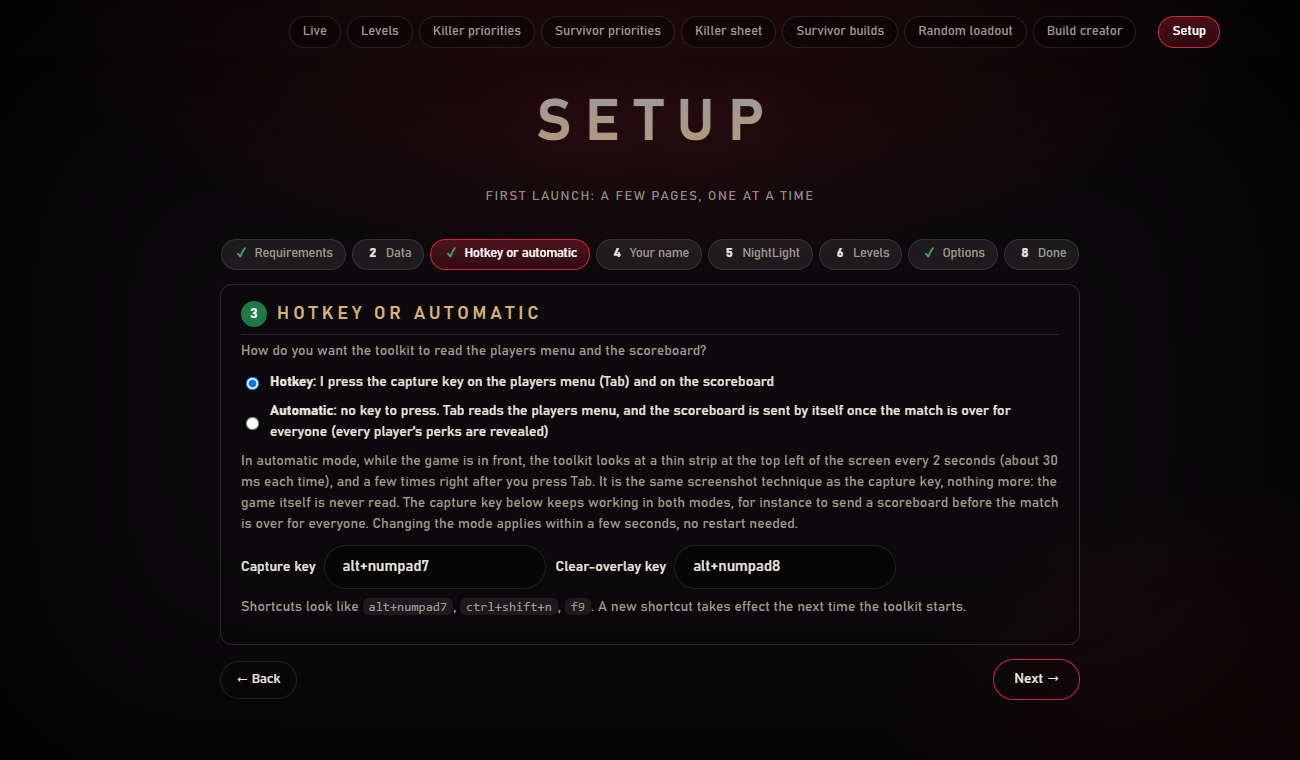
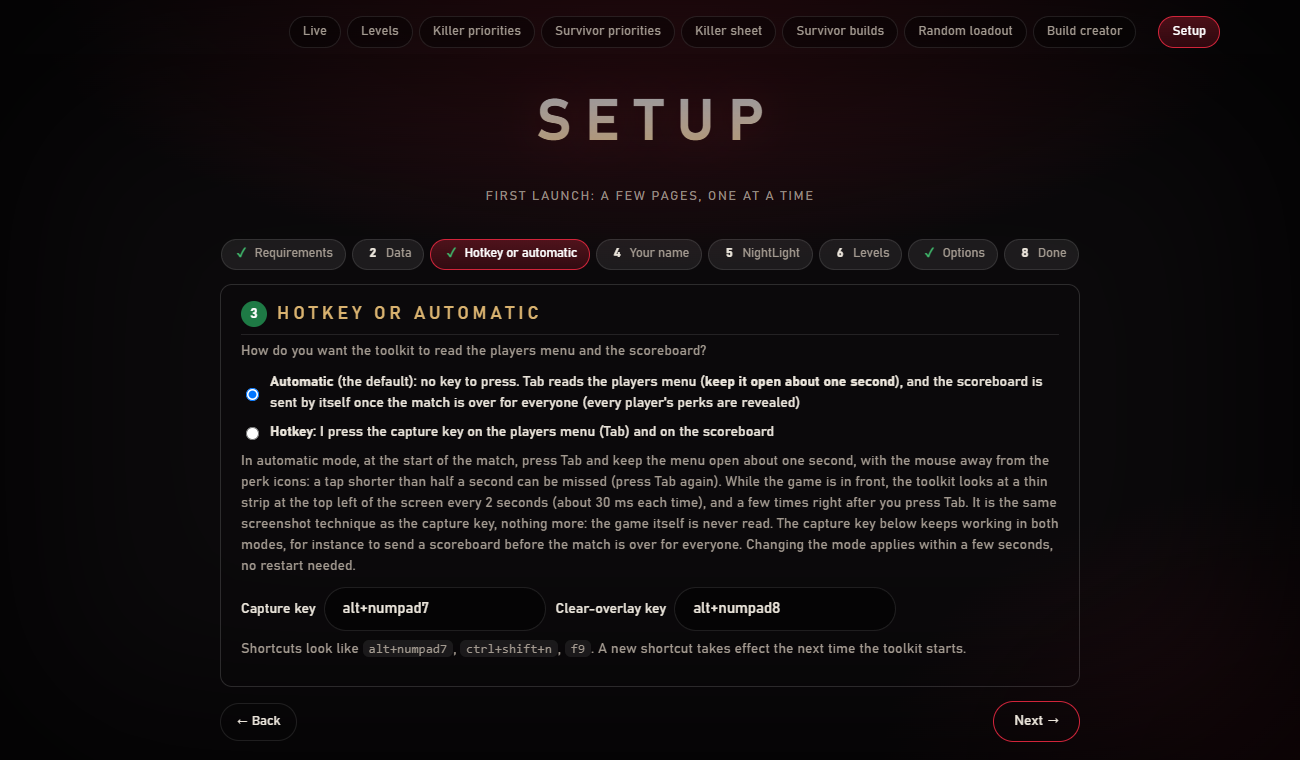
0.3.3: automatic mode is the default (hotkey mode stays one click away in Settings)

diff --git a/web/setup.html b/web/setup.html
@@ -76,8 +76,8 @@
   <section class="step" id="sMode">
     <h2><span class="n"></span>Hotkey or automatic</h2>
     <p>How do you want the toolkit to read the players menu and the scoreboard?</p>
+    <div class="row"><label><input type="radio" name="mode" id="oAutoMode"> <span><b>Automatic</b> (the default): no key to press. Tab reads the players menu (<b>keep it open about one second</b>), and the scoreboard is sent by itself once the match is over for everyone (every player's perks are revealed)</span></label></div>
     <div class="row"><label><input type="radio" name="mode" id="oKeyMode"> <span><b>Hotkey</b>: I press the capture key on the players menu (Tab) and on the scoreboard</span></label></div>
-    <div class="row"><label><input type="radio" name="mode" id="oAutoMode"> <span><b>Automatic</b>: no key to press. Tab reads the players menu (<b>keep it open about one second</b>), and the scoreboard is sent by itself once the match is over for everyone (every player's perks are revealed)</span></label></div>
     <p>In automatic mode, at the start of the match, press Tab and keep the menu open about one second, with the mouse away from the perk icons: a tap shorter than half a second can be missed (press Tab again). While the game is in front, the toolkit looks at a thin strip at the top left of the screen every 2 seconds (about 30 ms each time), and a few times right after you press Tab. It is the same screenshot technique as the capture key, nothing more: the game itself is never read. The capture key below keeps working in both modes, for instance to send a scoreboard before the match is over for everyone. Changing the mode applies within a few seconds, no restart needed.</p>
     <div class="row"><label>Capture key <input type="text" id="kCap" style="min-width:140px"></label><label>Clear-overlay key <input type="text" id="kClr" style="min-width:140px"></label></div>
     <p>Shortcuts look like <code>alt+numpad7</code>, <code>ctrl+shift+n</code>, <code>f9</code>. A new shortcut takes effect the next time the toolkit starts.</p>

diff --git a/entity_toolkit/config.py b/entity_toolkit/config.py
@@ -7,7 +7,7 @@ DEFAULTS = {
     "player": "",                 # your in-game name, as shown on the scoreboard (needed to tick "Me" on NightLight)
     "capture_key": "alt+numpad7",  # one key does everything: players menu -> perks + map, scoreboard -> NightLight upload
     "clear_key": "alt+numpad8",    # removes the perk overlay
-    "auto": False,                # automatic mode: Tab reads the players menu and the scoreboard is sent by itself, without the capture key (which keeps working)
+    "auto": True,                 # automatic mode (the default): Tab reads the players menu and the scoreboard is sent by itself. False = hotkey mode: only the capture key triggers a reading (it keeps working in both modes)
     "overlay": True,              # draw the allies' perks over the game's survivor list
     "perk_hover": True,           # show a perk's text when the mouse is over its icon (the game frees the cursor when you are hooked or dead)
     "sounds": True,               # small "ok" / "not ok" sounds

diff --git a/entity_toolkit/__init__.py b/entity_toolkit/__init__.py
@@ -1,2 +1,2 @@
 """Entity Toolkit: an unofficial companion for Dead by Daylight (perk overlay, NightLight upload, level tracking, recommended builds)."""
-__version__ = "0.3.2"
+__version__ = "0.3.3"

diff --git a/README.fr.md b/README.fr.md
@@ -16,7 +16,7 @@ Un compagnon **non officiel** pour *Dead by Daylight* (Windows) : voir les perks
 |---|---|
 | **Perks des alliés** (survivant) | Dans le menu des joueurs (Tab), avec ta touche de capture ou tout seul en mode automatique, l'outil lit les perks, les noms de personnage et les pseudos de tes trois alliés, les affiche sur la page **Live** (second écran) et les dessine sur la liste des survivants du jeu, devant le bon survivant. |
 | **Texte d'une perk au survol** | Quand le jeu libère la souris (tu es accroché ou mort), passe-la sur une icône de l'overlay : une petite boîte affiche le nom, la note et le texte de la perk. Elle disparaît dès que la souris quitte l'icône. À désactiver dans la page Settings. |
-| **Mode automatique** (facultatif) | Plus aucune touche : Tab (menu ouvert environ une seconde) lit le menu des joueurs, et le tableau de fin part tout seul une fois le match terminé pour tout le monde. Désactivé par défaut, dans Settings. |
+| **Mode automatique** (par défaut) | Aucune touche : Tab (menu ouvert environ une seconde) lit le menu des joueurs, et le tableau de fin part tout seul une fois le match terminé pour tout le monde. Tu préfères une touche ? Choisis *Hotkey* dans Settings. |
 | **Mémoire de la map** (survivant et tueur) | La même touche lit et mémorise la map depuis le menu des joueurs. |
 | **Envoi NightLight** | Sur le tableau de fin de match (même touche, ou tout seul en mode automatique), le match est envoyé à [NightLight](https://nightlight.gg) et la revue est faite pour toi (« Me » coché sur ton pseudo, les autres en Random, map réglée depuis la mémoire, Confirm cliqué). |
 | **Suivi des niveaux** | Une page pour régler où tu en es avec chaque tueur et survivant, tenue à jour automatiquement depuis le tableau de fin. Les actions en masse demandent confirmation et peuvent être annulées. |
@@ -44,12 +44,12 @@ Un compagnon **non officiel** pour *Dead by Daylight* (Windows) : voir les perks
 
 ## En match
 
-L'outil agit à deux moments, le début et la fin d'une partie. Tu choisis dans Settings comment ils se déclenchent : **Hotkey** (une touche de capture de ton choix, Alt + pavé numérique 7 tant que tu ne la changes pas) ou **Automatic** (aucune touche).
+L'outil agit à deux moments, le début et la fin d'une partie. Tu choisis dans Settings comment ils se déclenchent : **Automatic** (par défaut : aucune touche) ou **Hotkey** (une touche de capture de ton choix, Alt + pavé numérique 7 tant que tu ne la changes pas).
 
-| | Mode Hotkey | Mode automatique |
+| | Mode automatique (par défaut) | Mode Hotkey |
 |---|---|---|
-| **Début de la partie** | Ouvre le menu des joueurs (Tab) et appuie sur ta touche de capture | Ouvre le menu des joueurs (Tab) et garde-le ouvert environ une seconde |
-| **Fin de la partie** | Appuie sur ta touche de capture sur le tableau de fin | Rien : il part quand les perks de tous les joueurs sont dévoilées |
+| **Début de la partie** | Ouvre le menu des joueurs (Tab) et garde-le ouvert environ une seconde | Ouvre le menu des joueurs (Tab) et appuie sur ta touche de capture |
+| **Fin de la partie** | Rien : il part quand les perks de tous les joueurs sont dévoilées | Appuie sur ta touche de capture sur le tableau de fin |
 
 1. **Début : le menu des joueurs est lu.** Les perks de tes trois alliés et la map.
 2. **Ferme le menu** : les quatre perks de chaque allié restent affichées à côté de son portrait, pendant tout le match. Ta touche qui retire l'overlay (Alt + pavé numérique 8 tant que tu ne la changes pas) les efface.

diff --git a/wiki/En-match.md b/wiki/En-match.md
@@ -6,15 +6,15 @@ L'outil agit à **deux moments** d'une partie : au début, sur le menu des joueu
 
 | Mode | Au début | À la fin |
 |---|---|---|
-| **Hotkey** (par défaut) | Ouvre le menu des joueurs (Tab) et appuie sur **ta touche de capture** | Appuie sur **ta touche de capture** sur le tableau de fin |
-| **Automatic** | Ouvre le menu des joueurs (Tab) et garde-le ouvert environ une seconde | Rien : le tableau part tout seul |
+| **Automatic** (par défaut) | Ouvre le menu des joueurs (Tab) et garde-le ouvert environ une seconde | Rien : le tableau part tout seul |
+| **Hotkey** | Ouvre le menu des joueurs (Tab) et appuie sur **ta touche de capture** | Appuie sur **ta touche de capture** sur le tableau de fin |
 
 **Ta touche de capture** est celle réglée dans Settings. C'est **Alt + pavé numérique 7** tant que tu ne la changes pas (verrouillage numérique activé), et n'importe quelle combinaison convient : `f9`, `ctrl+shift+n`… La seconde touche, celle qui **retire l'overlay** (Alt + pavé numérique 8 tant que tu ne la changes pas), efface les perks affichées.
 
 **1. Au début : le menu des joueurs est lu.** L'outil prend une capture du jeu, lit le nom de la map en bas, puis pour chaque allié le personnage, le pseudo et les quatre perks (icônes comparées à celles téléchargées). Un petit son « ok » te dit que ça a marché ; le résultat s'affiche aussi sur la page **Live**.
 
-- *Hotkey :* ouvre le menu avec Tab et appuie sur ta touche de capture.
 - *Automatic :* ouvre le menu avec Tab et garde-le ouvert environ une seconde.
+- *Hotkey :* ouvre le menu avec Tab et appuie sur ta touche de capture.
 
 ![Le menu Tab des joueurs, tel qu'il est lu (pseudos floutés)](https://raw.githubusercontent.com/Tau-hub/entity-toolkit/main/docs/images/players-menu.jpg)
 
@@ -37,7 +37,7 @@ Si tu ne veux pas envoyer une partie, appuie sur ta touche qui retire l'overlay 
 
 ## Mode Hotkey
 
-Ta touche de capture ne réagit que si le jeu est lancé **et** au premier plan. Ce qu'elle fait dépend de l'écran :
+Choisis **Hotkey** dans Settings → *Hotkey or automatic* si tu préfères décider toi-même quand l'outil lit l'écran : il ne regarde alors rien tant que tu n'appuies pas sur ta touche de capture. Ta touche de capture ne réagit que si le jeu est lancé **et** au premier plan. Ce qu'elle fait dépend de l'écran :
 
 | Tu es sur… | Ta touche de capture fait ceci |
 |---|---|
@@ -52,7 +52,7 @@ Les deux touches se changent dans Settings → *Hotkey or automatic* ; un nouvea
 
 ## Mode automatique
 
-Choisis **Automatic** dans Settings → *Hotkey or automatic* (appliqué en quelques secondes, sans redémarrage). Tu n'appuies alors plus sur aucune touche :
+C'est le mode dans lequel l'outil démarre (Settings → *Hotkey or automatic* ; un changement s'applique en quelques secondes, sans redémarrage). Tu n'appuies sur aucune touche :
 
 1. **Au début du match, appuie sur Tab et garde le menu ouvert environ une seconde.** L'outil voit le menu des joueurs, lit les perks et la map, et affiche l'overlay. Un appui de moins d'une demi-seconde peut passer inaperçu : il ne se passe alors rien, refais simplement Tab un peu plus longtemps.
 2. **Joue.** Rouvrir Tab ne change rien : l'outil voit les mêmes alliés et garde les perks déjà affichées.

diff --git a/README.md b/README.md
@@ -16,7 +16,7 @@ An **unofficial** companion for *Dead by Daylight* (Windows): see your teammates
 |---|---|
 | **Allies' perks** (survivor) | On the Tab players menu (with your capture key, or by itself in automatic mode), the toolkit reads your three allies' perks, character names and player names, shows them on the **Live** page (second screen) and draws them over the game's survivor list, on the right survivor. |
 | **Perk text on hover** | When the game frees the mouse (you are hooked or dead), put it on an overlay icon and a small box shows that perk's name, rating and text. It disappears as soon as the mouse leaves the icon. Turn it off in the Settings page. |
-| **Automatic mode** (optional) | No key at all: Tab (menu open about one second) reads the players menu, and the scoreboard is sent by itself once the match is over for everyone. Off by default, in Settings. |
+| **Automatic mode** (the default) | No key at all: Tab (menu open about one second) reads the players menu, and the scoreboard is sent by itself once the match is over for everyone. Prefer a key? Choose *Hotkey* in Settings. |
 | **Map memory** (survivor and killer) | The map is read from the players menu at the same time, and remembered for the upload. |
 | **NightLight upload** | On the end-of-match scoreboard (same key, or by itself in automatic mode), the match is sent to [NightLight](https://nightlight.gg), the match is reviewed for you ("Me" ticked on your name, everyone else Random, map set from memory, Confirm clicked). |
 | **Level tracking** | A page to set how far you got with each killer and survivor, kept up to date automatically from the scoreboard. Bulk changes ask for confirmation and can be undone. |
@@ -42,12 +42,12 @@ An **unofficial** companion for *Dead by Daylight* (Windows): see your teammates
 
 ## In a match
 
-The toolkit acts at two moments, the start and the end of a match. You choose in Settings how they are triggered: **Hotkey** (a capture key of your choice, Alt + Numpad 7 until you change it) or **Automatic** (no key at all).
+The toolkit acts at two moments, the start and the end of a match. You choose in Settings how they are triggered: **Automatic** (the default: no key at all) or **Hotkey** (a capture key of your choice, Alt + Numpad 7 until you change it).
 
-| | Hotkey mode | Automatic mode |
+| | Automatic mode (default) | Hotkey mode |
 |---|---|---|
-| **Start of the match** | Open the players menu (Tab) and press your capture key | Open the players menu (Tab) and keep it open about one second |
-| **End of the match** | Press your capture key on the scoreboard | Nothing: it is sent once every player's perks are revealed |
+| **Start of the match** | Open the players menu (Tab) and keep it open about one second | Open the players menu (Tab) and press your capture key |
+| **End of the match** | Nothing: it is sent once every player's perks are revealed | Press your capture key on the scoreboard |
 
 1. **Start: the players menu is read.** Your three allies' perks and the map.
 2. **Close the menu**: each ally's four perks stay drawn next to their portrait, for the whole match. Your clear key (Alt + Numpad 8 until you change it) removes them.

diff --git a/wiki/In-a-match.md b/wiki/In-a-match.md
@@ -6,15 +6,15 @@ The toolkit acts at **two moments** of a match: at the start, on the players men
 
 | Mode | At the start | At the end |
 |---|---|---|
-| **Hotkey** (the default) | Open the players menu (Tab) and press **your capture key** | Press **your capture key** on the scoreboard |
-| **Automatic** | Open the players menu (Tab) and keep it open about one second | Nothing: the scoreboard is sent by itself |
+| **Automatic** (the default) | Open the players menu (Tab) and keep it open about one second | Nothing: the scoreboard is sent by itself |
+| **Hotkey** | Open the players menu (Tab) and press **your capture key** | Press **your capture key** on the scoreboard |
 
 **Your capture key** is the one set in Settings. It is **Alt + Numpad 7** until you change it (NumLock on), and any combination works: `f9`, `ctrl+shift+n`… The second key, the **clear key** (Alt + Numpad 8 until you change it), removes the overlay.
 
 **1. At the start: the players menu is read.** The toolkit takes a screenshot of the game, reads the map name at the bottom, then for each ally the character, the player name and the four perks (icons compared with the downloaded ones). A short "ok" sound tells you it worked; the result also shows on the **Live** page.
 
-- *Hotkey:* open the menu with Tab and press your capture key.
 - *Automatic:* open the menu with Tab and keep it open about one second.
+- *Hotkey:* open the menu with Tab and press your capture key.
 
 ![The Tab players menu, as it is read (player names blurred)](https://raw.githubusercontent.com/Tau-hub/entity-toolkit/main/docs/images/players-menu.jpg)
 
@@ -37,7 +37,7 @@ If you do not want a match uploaded, press your clear key before the scoreboard 
 
 ## Hotkey mode
 
-Your capture key only reacts while the game is running **and** in front. What it does depends on the screen:
+Choose **Hotkey** in Settings → *Hotkey or automatic* if you would rather decide yourself when the toolkit reads the screen: nothing is then looked at until you press your capture key. Your capture key only reacts while the game is running **and** in front. What it does depends on the screen:
 
 | You are on… | Your capture key does this |
 |---|---|
@@ -52,7 +52,7 @@ Both keys are changed in Settings → *Hotkey or automatic*; a new shortcut take
 
 ## Automatic mode
 
-Choose **Automatic** in Settings → *Hotkey or automatic* (it applies within a few seconds, no restart). You then press no key at all:
+This is the mode the toolkit starts in (Settings → *Hotkey or automatic*; a change applies within a few seconds, no restart). You press no key at all:
 
 1. **At the start of the match, press Tab and keep the menu open about one second.** The toolkit sees the players menu, reads the perks and the map, and draws the overlay. A tap shorter than half a second can be missed: nothing happens then, just press Tab again a little longer.
 2. **Play.** Opening Tab again changes nothing: the toolkit sees the same allies and keeps the perks already shown.

diff --git a/wiki/Configuration.md b/wiki/Configuration.md
@@ -8,7 +8,7 @@ Au premier lancement, le Setup se fait **une page à la fois**, avec **Next** et
 
 1. **Prérequis.** La page vérifie que Windows a un moteur OCR anglais.
 2. **Update database.** Un bouton télécharge les noms, descriptions et icônes des perks (wiki DbD), les noms de maps, les builds et la tier list d'Otzdarva, et les stats de NightLight. La première fois, compte quelques minutes. Relance-le après un patch du jeu (nouveaux perks, nouvelles maps, nouvelles notes). La page indique le patch du jeu (d'après les annonces Steam) et l'étiquette de patch des données d'Otzdarva, qui peut avoir quelques jours de retard ; les pages du wiki sont retéléchargées à chaque mise à jour. Chaque étape rend compte séparément, donc un site en panne ne bloque pas les autres. Depuis une console : `python -m entity_toolkit update-db`. Pendant le téléchargement, la page indique l'étape en cours, puis ce que le patch a apporté (killers, survivants, perks, add-ons, objets, offrandes, maps ajoutés ou retirés). Une fois fait une première fois, l'outil rafraîchit les données tout seul tous les 7 jours en arrière-plan (modifiable ou désactivable dans *Options*). Clique sur le bouton puis sur **Next** : le téléchargement continue en arrière-plan pendant que tu remplis la suite (et **Next** le lance tout seul si tu l'as oublié).
-3. **Hotkey or automatic.** Choisis comment l'outil se déclenche : avec une touche de capture de ton choix (Alt + pavé numérique 7 tant que tu ne la changes pas ; la touche qui retire l'overlay se règle ici aussi), ou en mode automatique, où il suffit de garder le menu Tab ouvert environ une seconde au début du match (voir [En match](https://github.com/Tau-hub/entity-toolkit/wiki/En-match#mode-automatique)).
+3. **Hotkey or automatic.** Choisis comment l'outil se déclenche : en mode automatique (par défaut), où il suffit de garder le menu Tab ouvert environ une seconde au début du match, ou avec une touche de capture de ton choix (Alt + pavé numérique 7 tant que tu ne la changes pas ; la touche qui retire l'overlay se règle ici aussi) (voir [En match](https://github.com/Tau-hub/entity-toolkit/wiki/En-match#mode-automatique)).
 4. **Your in-game name.** Saisis ton pseudo en jeu exactement comme sur le tableau de fin.
 5. **NightLight** (facultatif). Le lien de la page mène à [nightlight.gg/account/api](https://nightlight.gg/account/api), où tu crées ton jeton d'API ; colle-le, puis connecte-toi une fois dans la fenêtre Edge qu'ouvre le bouton. L'outil ne voit jamais ton mot de passe. Tu n'utilises pas NightLight ? Clique sur **Next** : sans jeton, rien n'est jamais envoyé, même en mode automatique.
 6. **Your character levels** (facultatif). Dépose des captures des écrans de sélection des tueurs et des survivants directement dans la page Setup : l'outil lit quels personnages tu as et leurs niveaux (tu vérifies avant d'enregistrer), ou règle-les à la main sur la page **Levels** (voir plus bas).

diff --git a/wiki/Setup-and-settings.md b/wiki/Setup-and-settings.md
@@ -8,7 +8,7 @@ On the first launch, the Setup goes **one page at a time**, with **Next** and **
 
 1. **Requirements.** The page checks that Windows has an English OCR engine.
 2. **Update database.** One button downloads perk names, descriptions and icons (DbD wiki), map names, Otzdarva's builds and tier list, and NightLight's stats. The first time takes a few minutes. Run it again after a game patch (new perks, new maps, new ratings). The page shows the patch the game is on (from the Steam announcements) and the patch label of Otzdarva's data, which can lag a few days behind the game; wiki pages are re-downloaded on every update. Each step reports on its own, so one site being down does not block the others. The same thing from a console: `python -m entity_toolkit update-db`. While it runs, the page shows which step it is on, and afterwards what the patch brought (new or removed killers, survivors, perks, add-ons, items, offerings, maps). Once you have done it once, the toolkit refreshes the data by itself every 7 days in the background (change or turn off in *Options*). Press the button, then **Next**: the download goes on in the background while you fill in the rest (and **Next** starts it for you if you forgot).
-3. **Hotkey or automatic.** Choose how the toolkit is triggered: with a capture key of your choice (Alt + Numpad 7 until you change it; the clear key is set here too), or in automatic mode, where you only keep the Tab menu open about one second at the start of the match (see [In a match](https://github.com/Tau-hub/entity-toolkit/wiki/In-a-match#automatic-mode)).
+3. **Hotkey or automatic.** Choose how the toolkit is triggered: in automatic mode (the default), where you only keep the Tab menu open about one second at the start of the match, or with a capture key of your choice (Alt + Numpad 7 until you change it; the clear key is set here too) (see [In a match](https://github.com/Tau-hub/entity-toolkit/wiki/In-a-match#automatic-mode)).
 4. **Your in-game name.** Type your in-game name exactly as the scoreboard shows it.
 5. **NightLight** (optional). The link on the page goes to [nightlight.gg/account/api](https://nightlight.gg/account/api), where you create your API token; paste it, then sign in once in the Edge window the button opens. The toolkit never sees your password. You do not use NightLight? Press **Next**: without a token nothing is ever sent, even in automatic mode.
 6. **Your character levels** (optional). Drop screenshots of the in-game killer and survivor selection screens right on the Setup page and the toolkit reads which characters you have and their levels (you review before saving), or set them by hand on the **Levels** page (see below).
